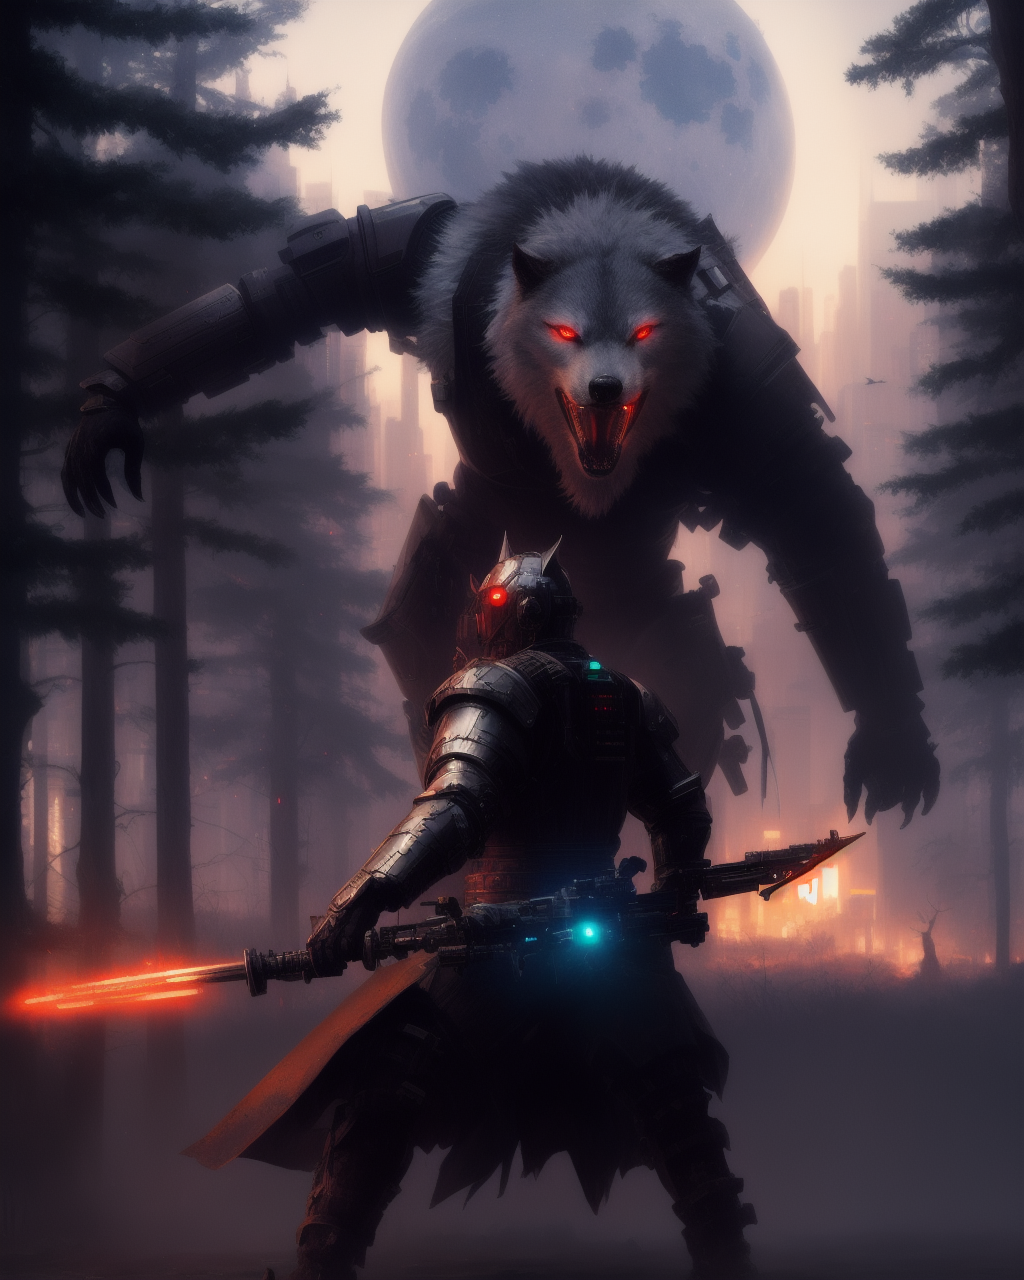
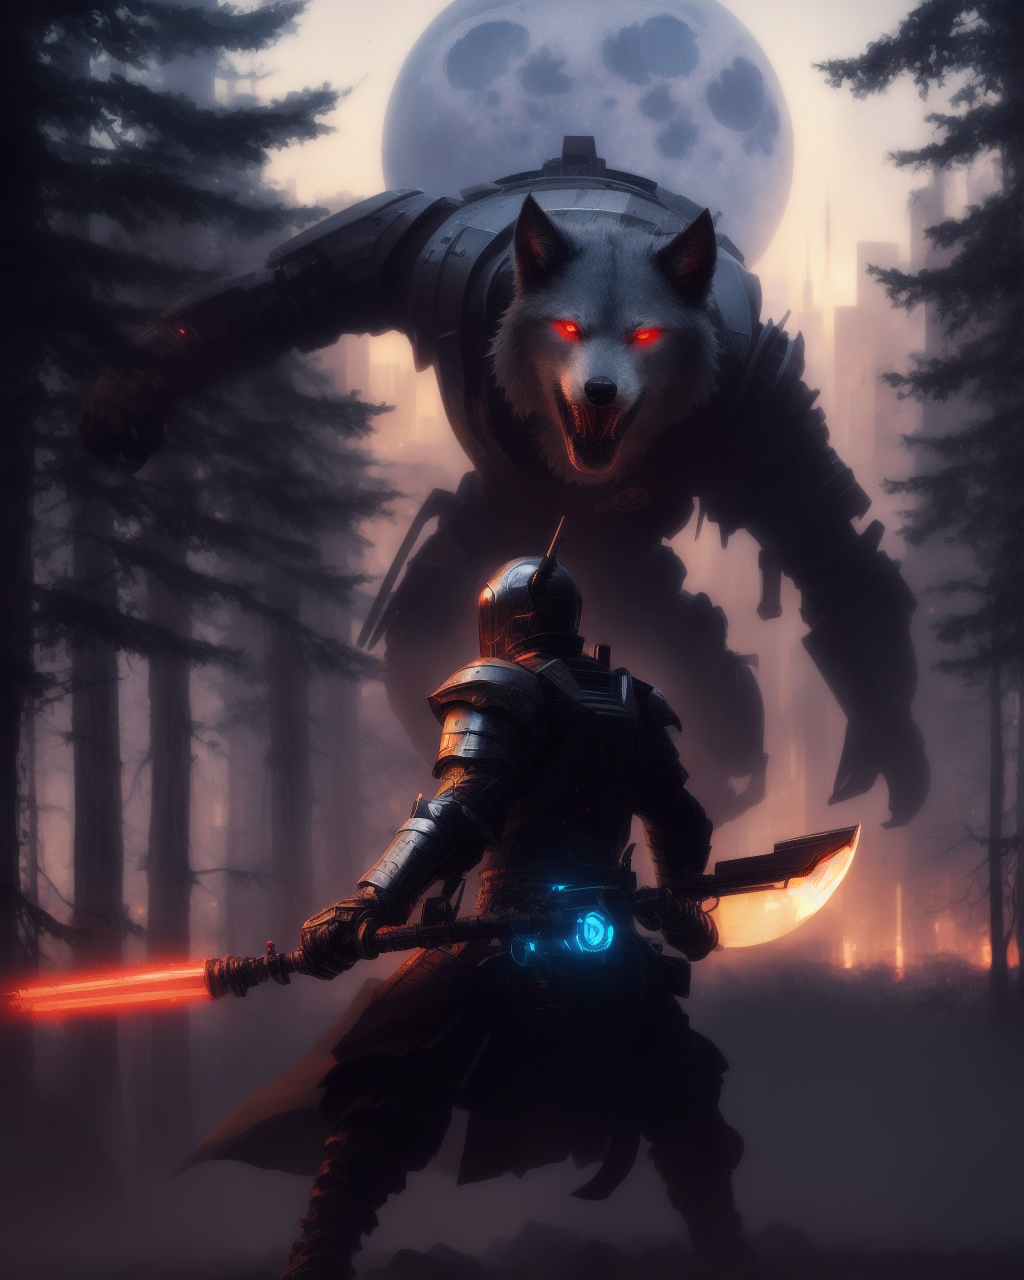
use new images

diff --git a/README.md b/README.md
@@ -21,8 +21,8 @@ Original Image:
 The default latent upscale (choose Resize mode "latent upscale"):
 ![](assets/default.png)
 
-Latent Upscale Plugin (Upscale method: "nearest-exact", Scheduler: "normal")
-![](assets/nearest-exact-normal2.png)
+Latent Upscale Plugin (Upscale method: "nearest-exact", Scheduler: "simple")
+![](assets/nearest-exact-simple8.png)
 
 ## Installation
 
